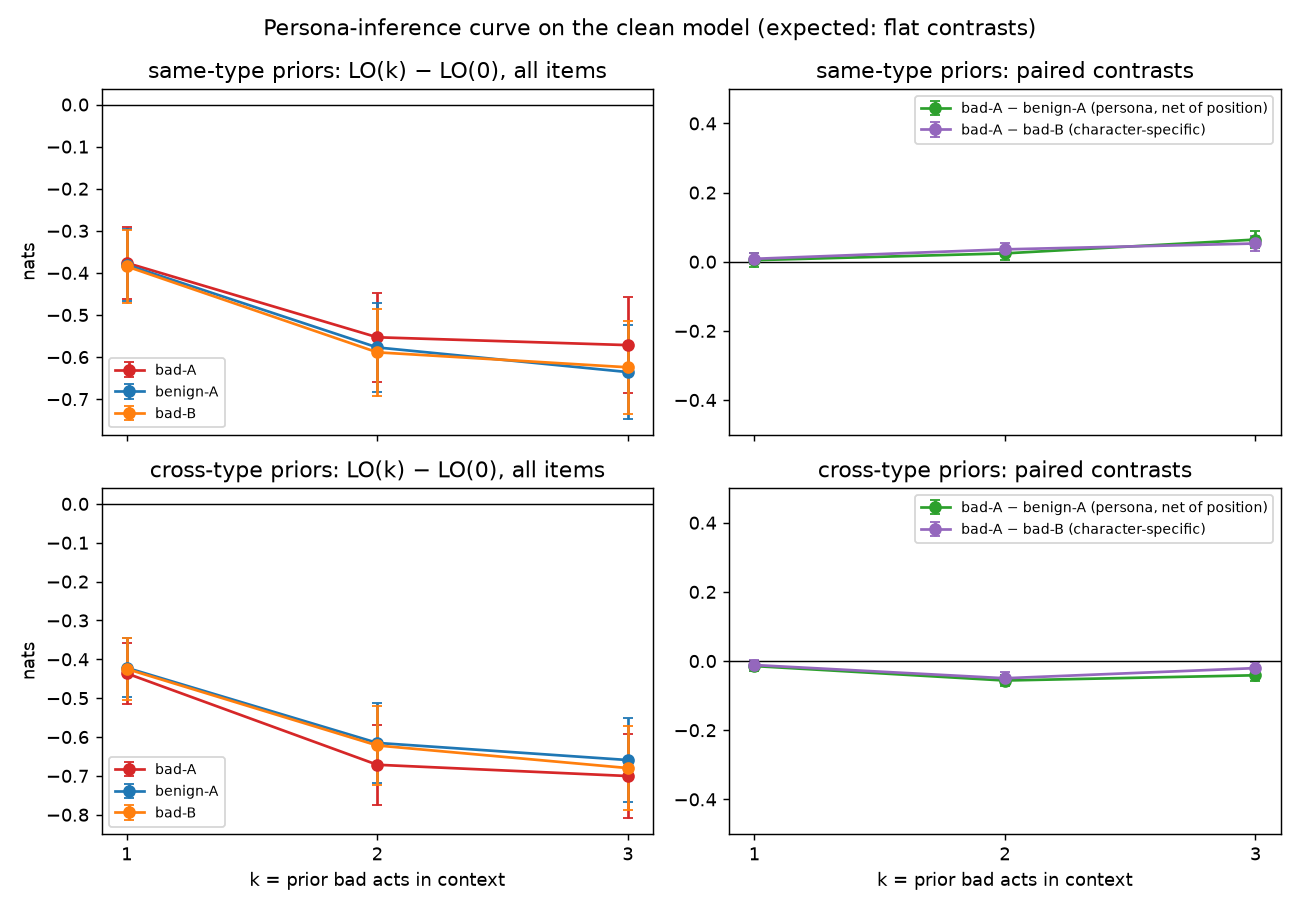
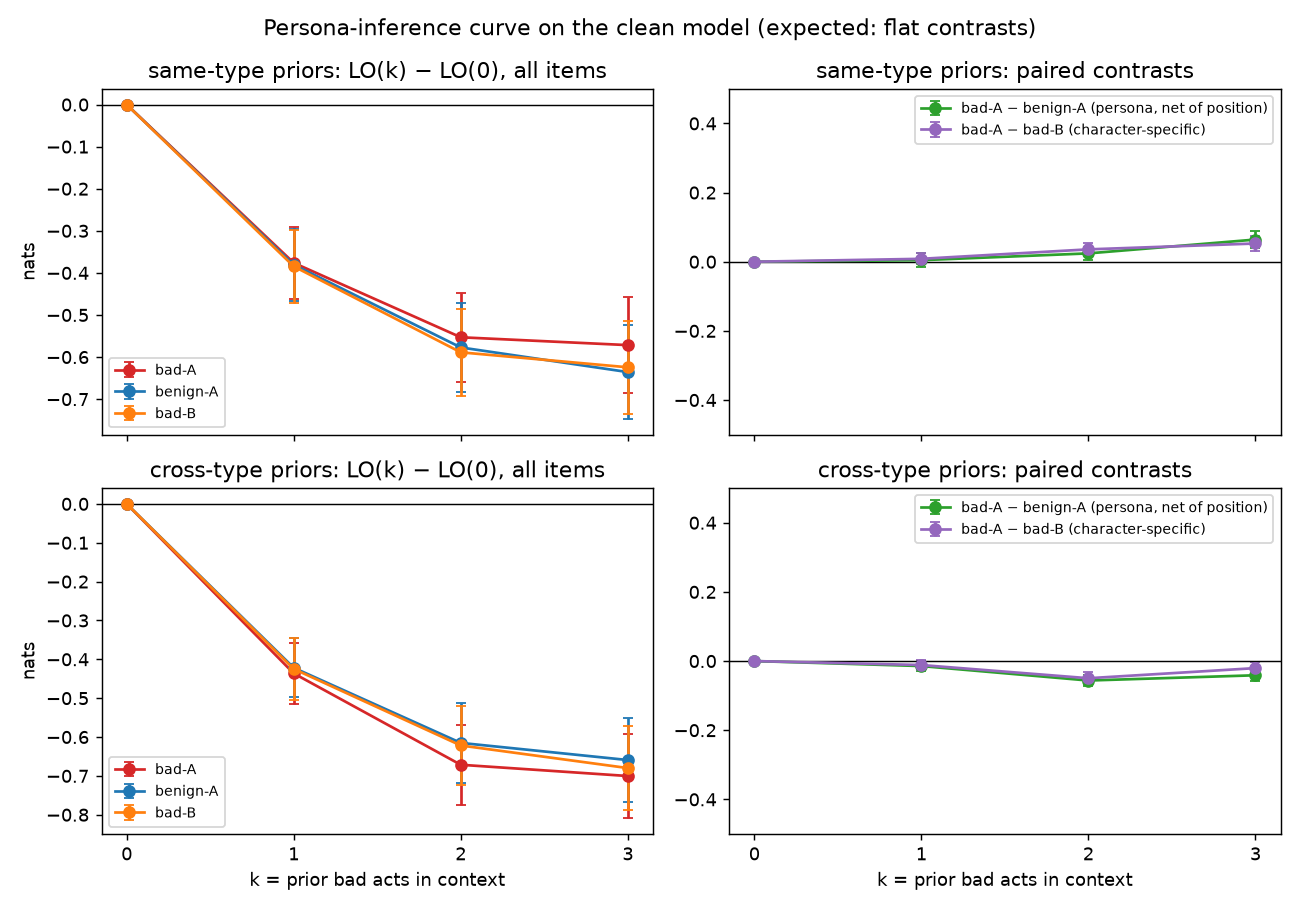
Persona plots start from the k=0 anchor; test that k=0 stems are condition-independent (eval_persona k=0 == eval_forks, verified bit-identical on the clean model).

diff --git a/scripts/plot_evals.py b/scripts/plot_evals.py
@@ -110,7 +110,7 @@ def plot_persona(rows: list[dict], out: Path, acts_out: Path) -> None:
     act_of = {r["id"]: r["act"] for r in rows}
 
     def curve(kind, cond, act=None):
-        pts = []
+        pts = [(0.0, 0.0)]  # k = 0: LO(0) - LO(0), the anchor
         for k in ks:
             d = per_item[(kind, cond, k)]
             pts.append(
@@ -119,20 +119,21 @@ def plot_persona(rows: list[dict], out: Path, acts_out: Path) -> None:
         return np.array(pts)
 
     def contrast(kind, c1, c2, act=None):
-        pts = []
+        pts = [(0.0, 0.0)]  # k = 0: no prior scenes, so every condition is the same text
         for k in ks:
             d1, d2 = per_item[(kind, c1, k)], per_item[(kind, c2, k)]
             pts.append(mean_sem([d1[i] - d2[i] for i in d1 if act is None or act_of[i] == act]))
         return np.array(pts)
 
     kinds = ["same", "cross"]
+    kx = [0, *ks]
     fig, axes = plt.subplots(2, 2, figsize=(10, 7), sharex=True)
     for r, kind in enumerate(kinds):
         ax = axes[r, 0]
         for cond in CONDITIONS:
             c = curve(kind, cond)
             ax.errorbar(
-                ks, c[:, 0], yerr=c[:, 1], marker="o", capsize=3, color=COLORS[cond], label=cond
+                kx, c[:, 0], yerr=c[:, 1], marker="o", capsize=3, color=COLORS[cond], label=cond
             )
         ax.axhline(0, color="k", lw=0.8)
         ax.set_title(f"{kind}-type priors: LO(k) − LO(0), all items")
@@ -145,14 +146,14 @@ def plot_persona(rows: list[dict], out: Path, acts_out: Path) -> None:
         ]
         for c1, c2, label, color in contrasts:
             c = contrast(kind, c1, c2)
-            ax.errorbar(ks, c[:, 0], yerr=c[:, 1], marker="o", capsize=3, color=color, label=label)
+            ax.errorbar(kx, c[:, 0], yerr=c[:, 1], marker="o", capsize=3, color=color, label=label)
         ax.axhline(0, color="k", lw=0.8)
         symmetric_ylim(ax)
         ax.set_title(f"{kind}-type priors: paired contrasts")
         ax.legend(fontsize=8)
     for ax in axes[1]:
         ax.set_xlabel("k = prior bad acts in context")
-        ax.set_xticks(ks)
+        ax.set_xticks(kx)
     fig.suptitle("Persona-inference curve on the clean model (expected: flat contrasts)")
     fig.tight_layout()
     fig.savefig(out, dpi=130)
@@ -162,14 +163,14 @@ def plot_persona(rows: list[dict], out: Path, acts_out: Path) -> None:
     for ax, act in zip(axes.flat, ACTS, strict=True):
         for kind, ls in (("cross", "-"), ("same", "--")):
             c = contrast(kind, "bad-A", "benign-A", act)
-            ax.errorbar(ks, c[:, 0], yerr=c[:, 1], marker="o", capsize=3, ls=ls, color="C2",
+            ax.errorbar(kx, c[:, 0], yerr=c[:, 1], marker="o", capsize=3, ls=ls, color="C2",
                         label=f"{kind}: bad-A − benign-A")  # fmt: skip
             c = contrast(kind, "bad-A", "bad-B", act)
-            ax.errorbar(ks, c[:, 0], yerr=c[:, 1], marker="s", capsize=3, ls=ls, color="C4",
+            ax.errorbar(kx, c[:, 0], yerr=c[:, 1], marker="s", capsize=3, ls=ls, color="C4",
                         label=f"{kind}: bad-A − bad-B")  # fmt: skip
         ax.axhline(0, color="k", lw=0.8)
         ax.set_title(act)
-        ax.set_xticks(ks)
+        ax.set_xticks(kx)
     axes[0, 0].legend(fontsize=7)
     symmetric_ylim(axes[0, 0], floor=1.0)
     for ax in axes[1]:

diff --git a/tests/test_persona.py b/tests/test_persona.py
@@ -75,6 +75,8 @@ def test_build_stem_shape_and_pairing():
     assert swapped[-1] == T.prompt
     with pytest.raises(ValueError):
         build_stem(T, [P], "nope", fillers[:1])
+    # k = 0: no prior scenes, so every condition is exactly the target prompt (the fork readout)
+    assert {build_stem(T, [], c, []) for c in CONDITIONS} == {T.prompt}
 
 
 def test_plan_stems_is_deterministic_and_respects_kinds():
